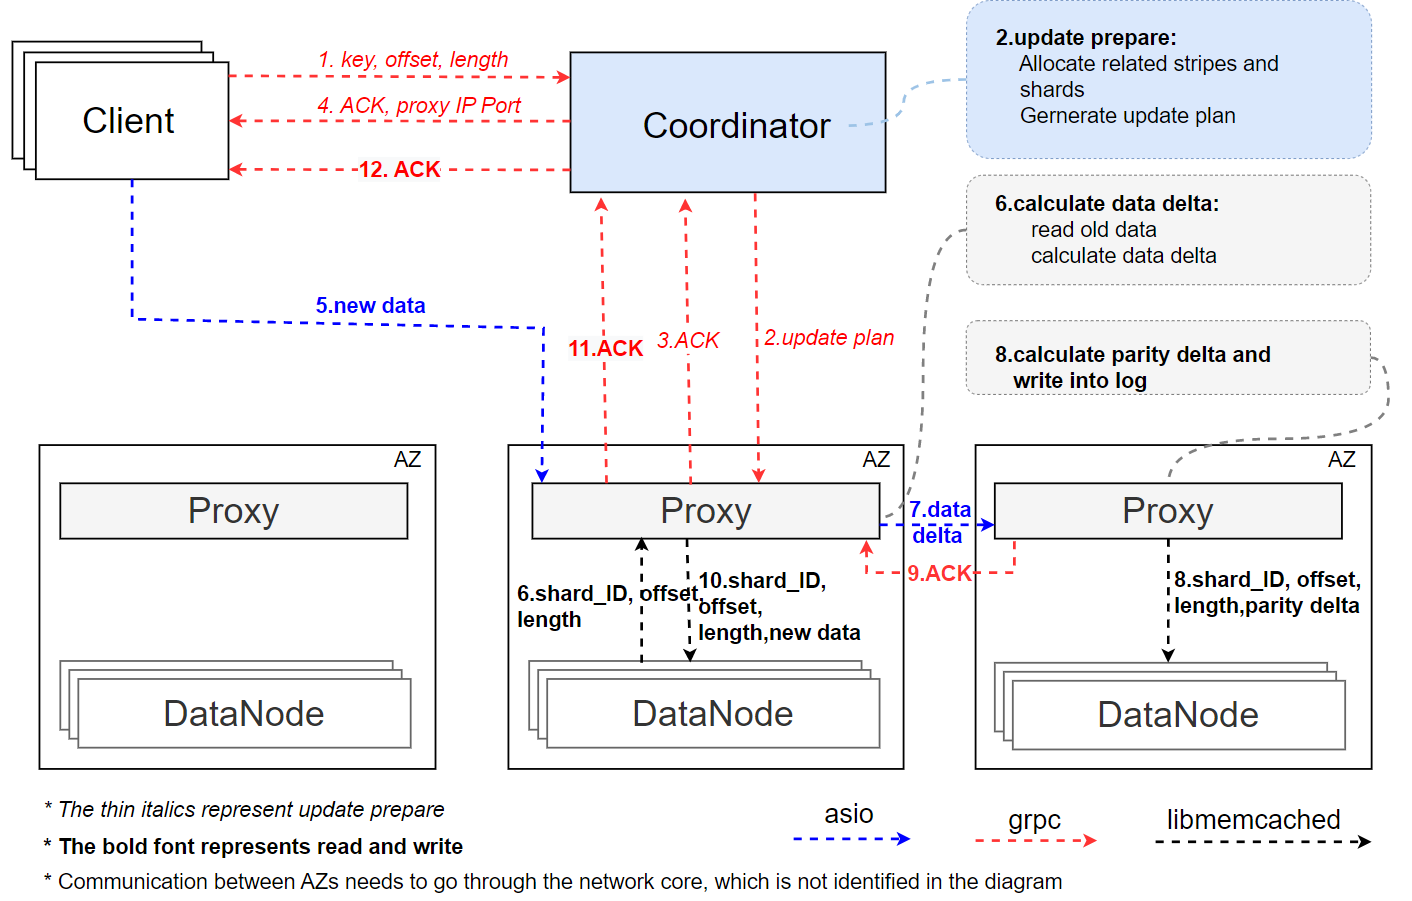
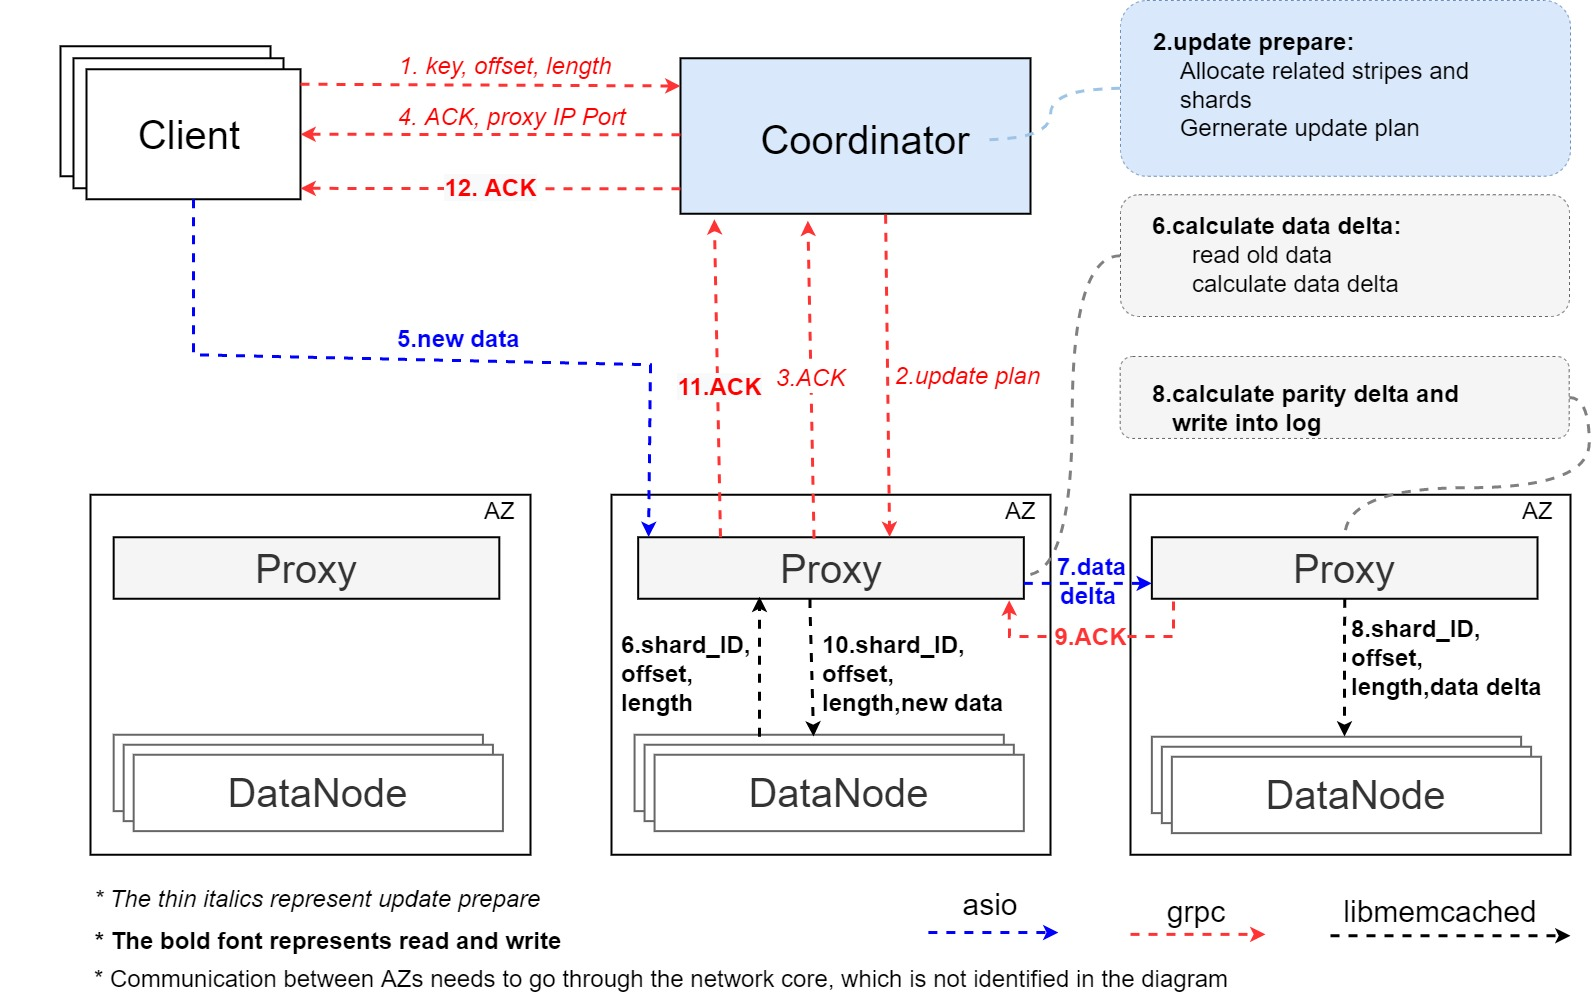
to data delta

diff --git a/doc/doc.md b/doc/doc.md
@@ -143,9 +143,9 @@
 4. client根据coordinator的回应，将新数据发送给proxy。
 5. data_proxy接收数据,给client返回ACK信息。读取旧数据并计算出data_delta。
 6. data_proxy将data_delta发送给collector_proxy。
-7. 对于全局校验块，collector_proxy接受data_delta并返回ACK，计算出parity_delta，存在日志中。对于局部校验块，各相关proxy使用data_delta计算出parity_delta，写入日志中。
+7. 对于全局校验块，collector_proxy接受data_delta并将其存在校验节点的日志中，返回ACK。对于局部校验块，各相关proxy将data_delta存在对应日志中。
    
-   >每个节点写日志会记录更新的条带与shard，parity_delta在shard中的偏移量以及长度。
+   >每个节点写日志会记录更新的条带与shard，data_delta在shard中的偏移量以及长度。
 8. 在所有的校验块成功写入信息后，collector_proxy给data_proxy返回校验块更新成功的信息。
 9.  data_proxy将新数据写入。
 10. data_proxy给coordinator返回更新成功的消息。
